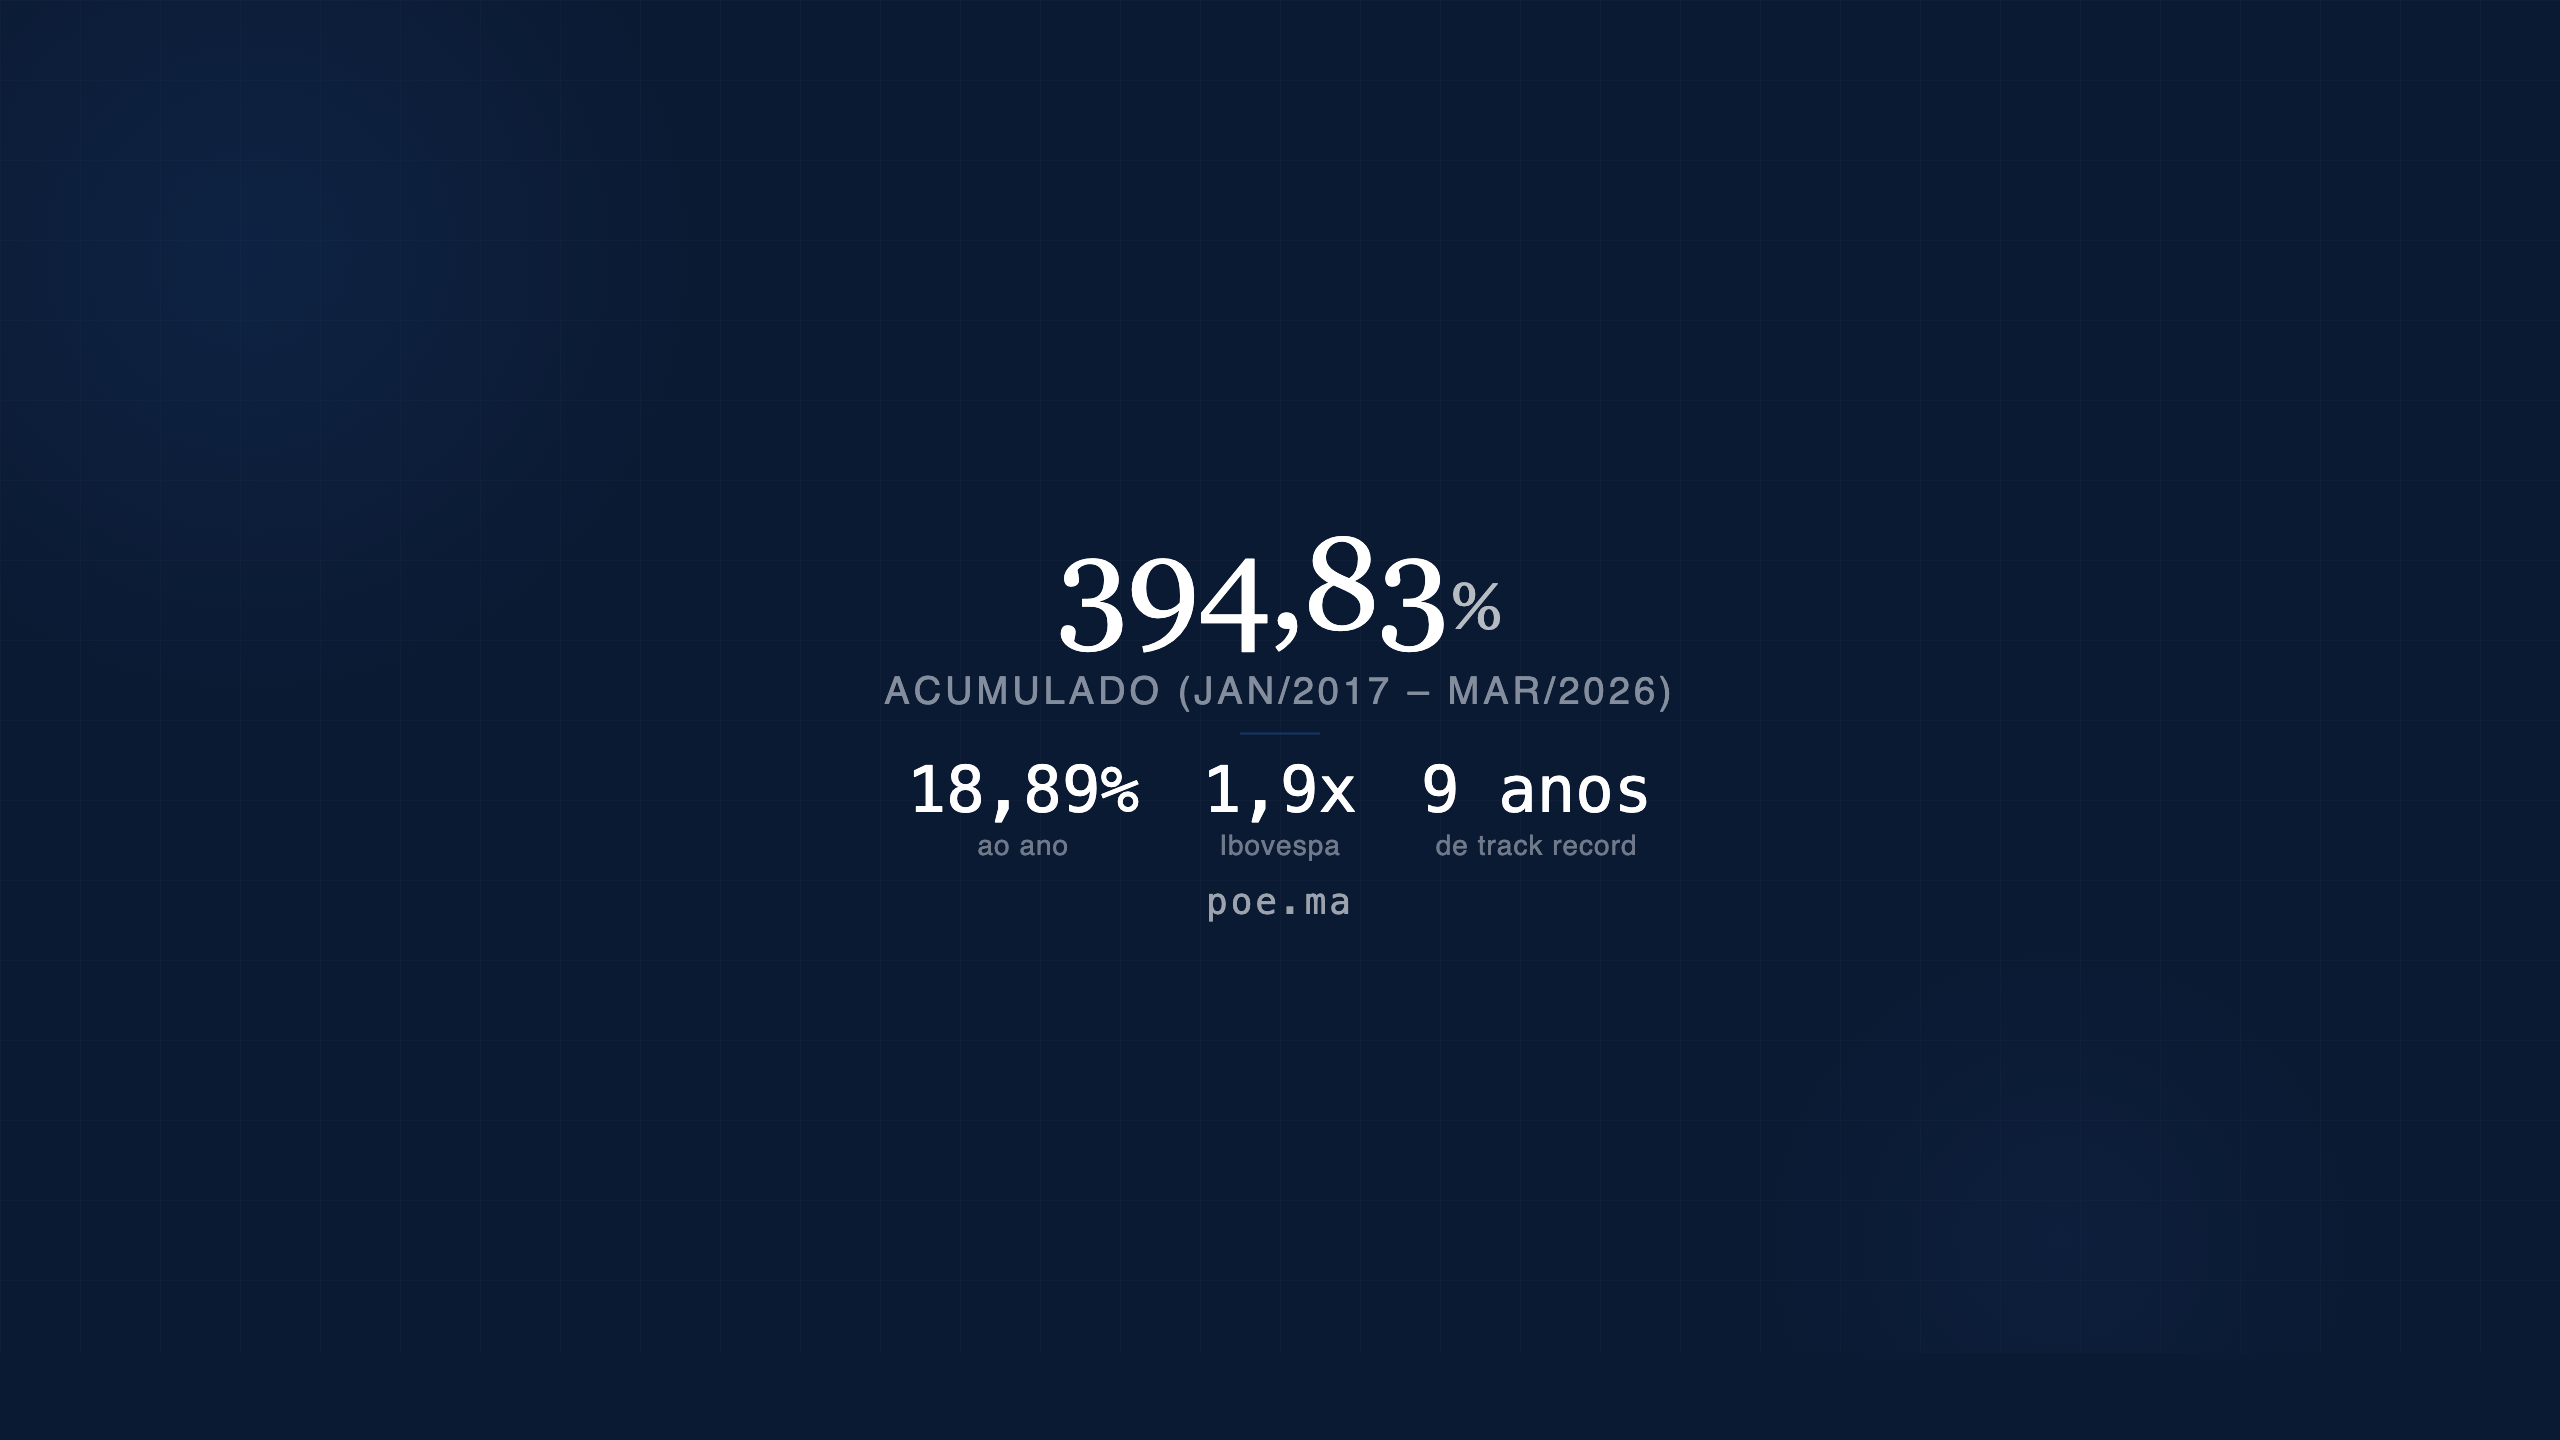
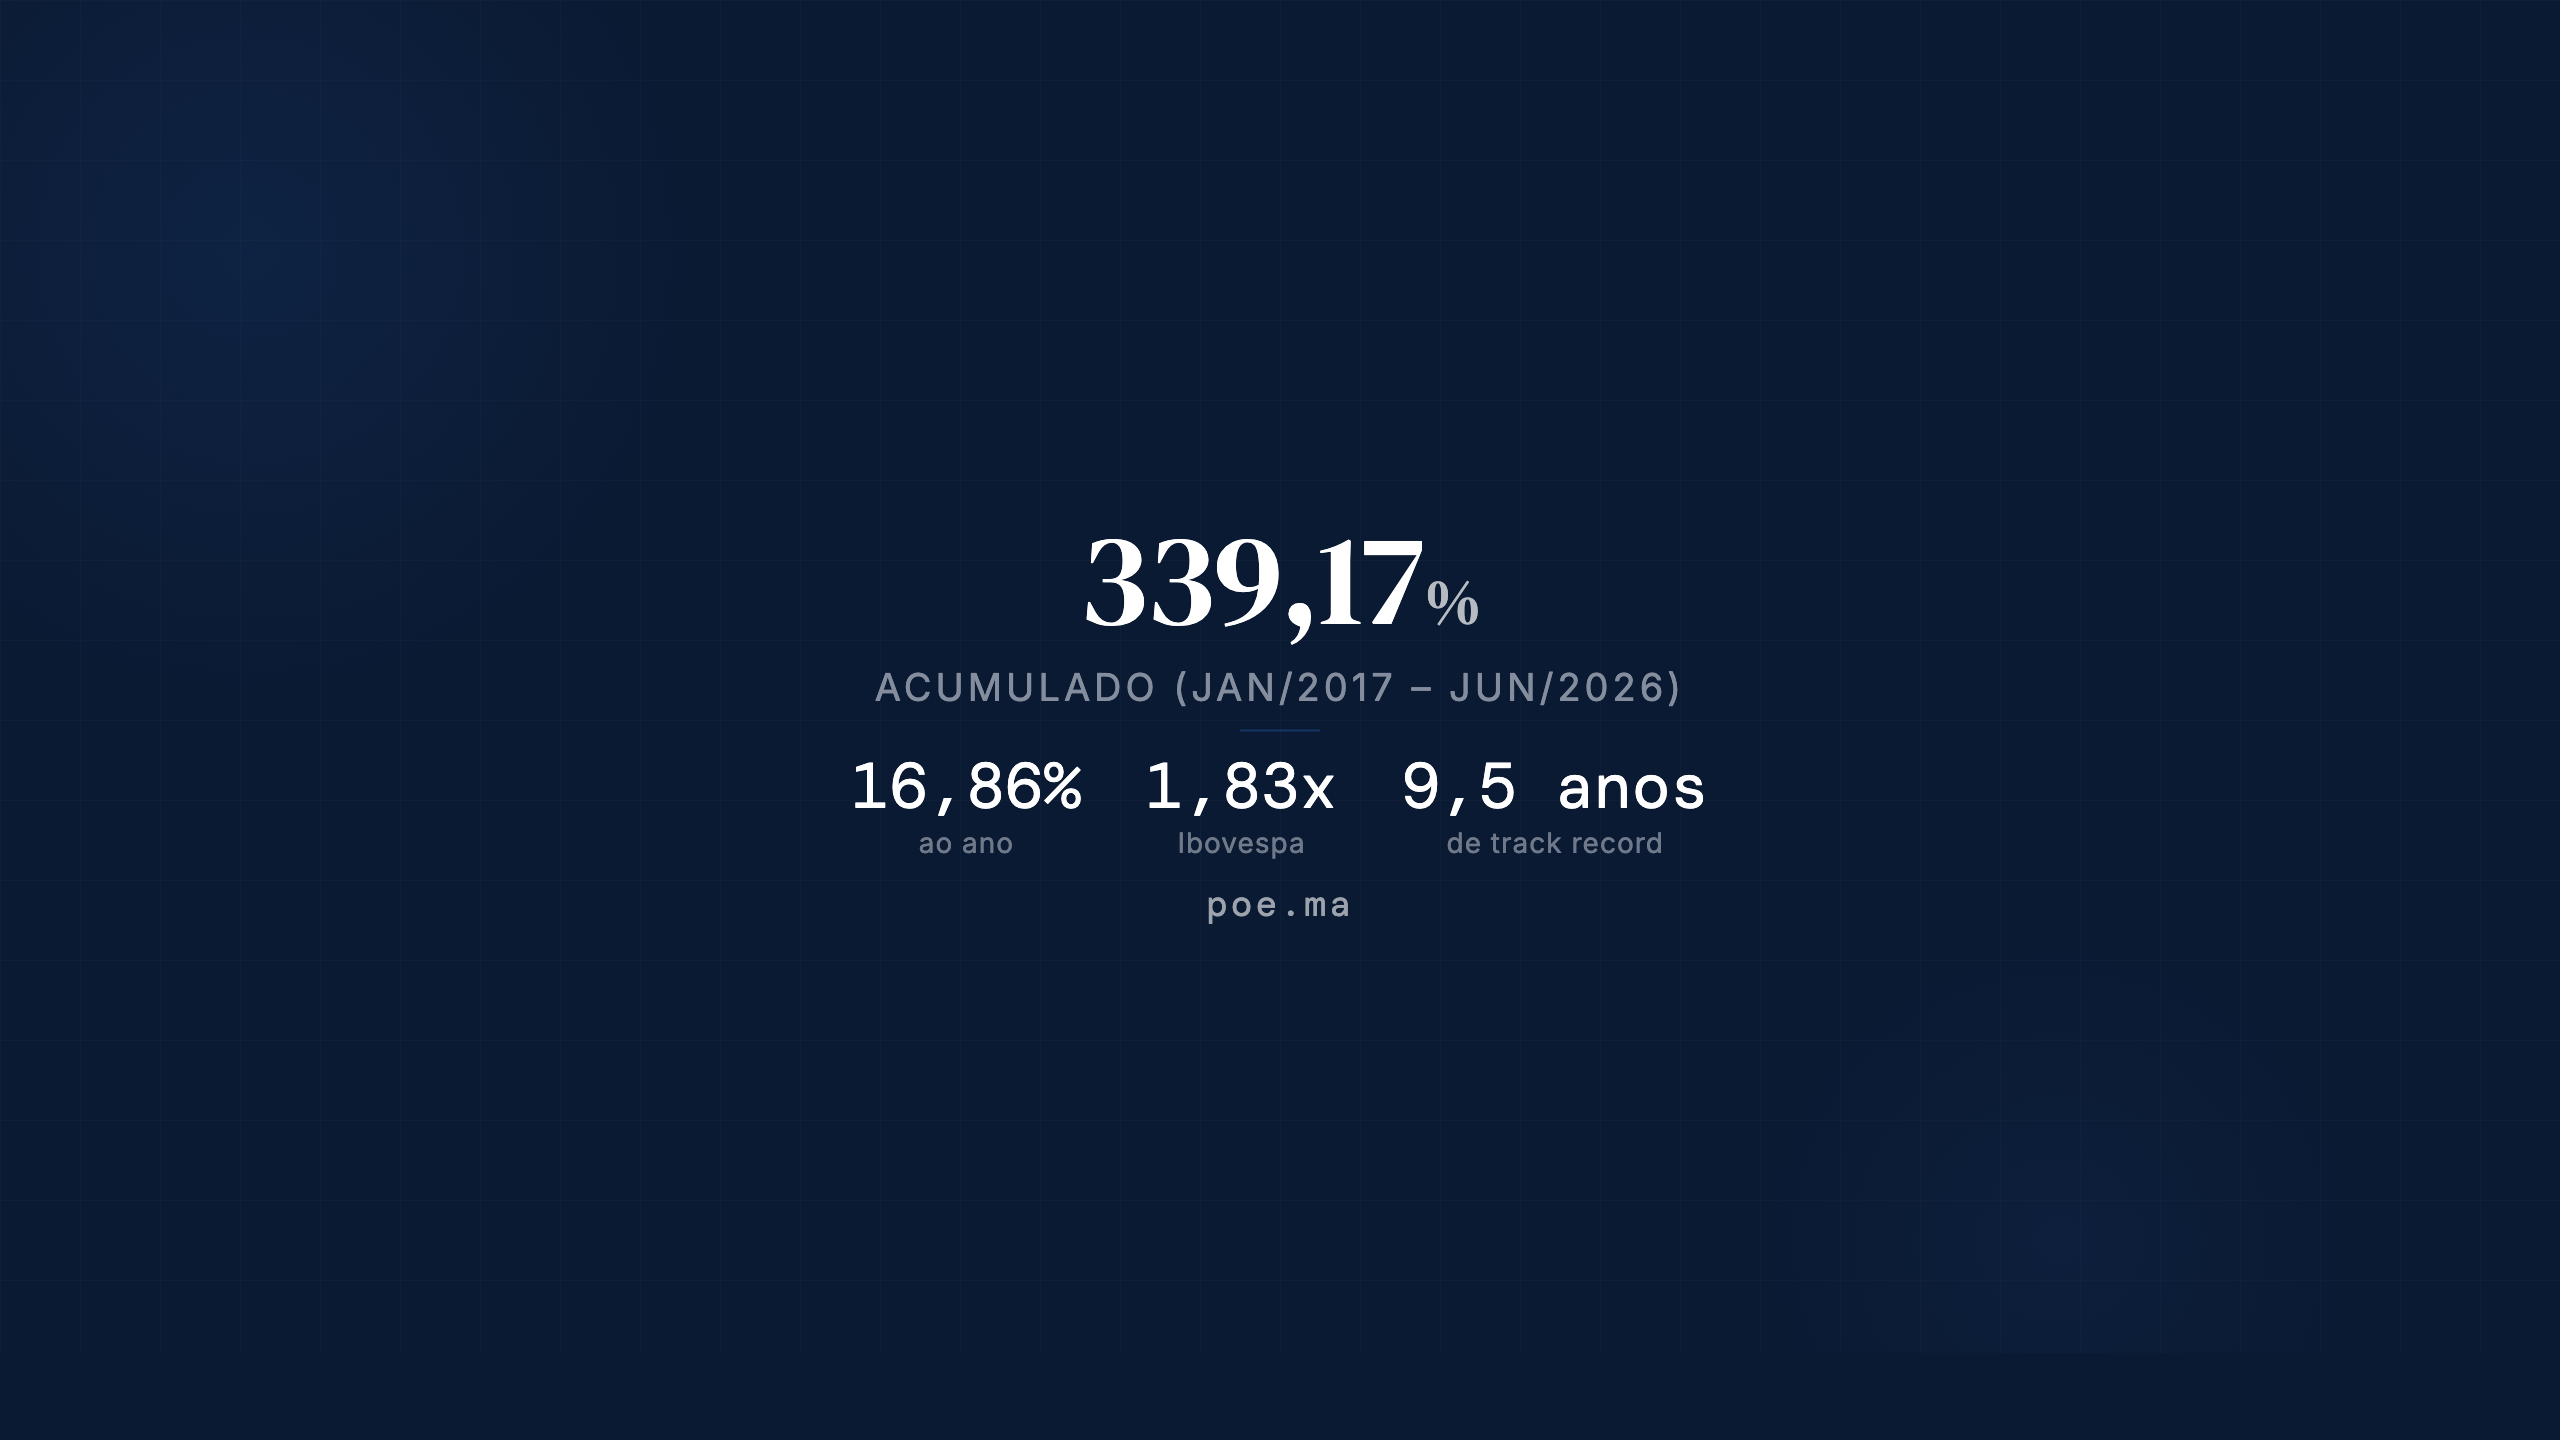
Add 2º trimestre 2026 comunicado, update numbers site-wide (#16)
Publish the Q2/2026 quarterly report and refresh the accumulated
performance figures (339,17% vs 185,64% Ibov, jan/2017–jun/2026)
across the home, intro, and YouTube banner. Include the new quota
evolution and statement PDFs, plus updated X/YouTube banners.

Claude-Session: https://claude.ai/code/session_01X31aBXMcqdhcBXYedF8htt

Changed region(s): [[0.3438, 0.375, 0.6562, 0.5], [0.3125, 0.5312, 0.6875, 0.5938], [0.4688, 0.625, 0.5, 0.6562]]

diff --git a/index.html b/index.html
@@ -4,19 +4,19 @@
   <meta charset="UTF-8">
   <meta name="viewport" content="width=device-width, initial-scale=1.0">
   <title>Poema Parceria de Investimentos</title>
-  <meta name="description" content="Poema Parceria de Investimentos. Performance acumulada de 394,83% de jan/2017 a mar/2026, versus 211,30% do Ibovespa no mesmo período.">
+  <meta name="description" content="Poema Parceria de Investimentos. Performance acumulada de 339,17% de jan/2017 a jun/2026, versus 185,64% do Ibovespa no mesmo período.">
   <link rel="canonical" href="https://poe.ma/">
   <link rel="icon" type="image/png" href="/favicon.png">
   <meta property="og:type" content="website">
   <meta property="og:title" content="Poema Parceria de Investimentos">
-  <meta property="og:description" content="Performance acumulada de 394,83% de jan/2017 a mar/2026, versus 211,30% do Ibovespa no mesmo período.">
+  <meta property="og:description" content="Performance acumulada de 339,17% de jan/2017 a jun/2026, versus 185,64% do Ibovespa no mesmo período.">
   <meta property="og:url" content="https://poe.ma/">
   <meta property="og:image" content="https://poe.ma/images/poema-logo.jpg">
   <meta property="og:locale" content="pt_BR">
   <meta property="og:site_name" content="Poema">
   <meta name="twitter:card" content="summary">
   <meta name="twitter:title" content="Poema Parceria de Investimentos">
-  <meta name="twitter:description" content="Performance acumulada de 394,83% de jan/2017 a mar/2026, versus 211,30% do Ibovespa no mesmo período.">
+  <meta name="twitter:description" content="Performance acumulada de 339,17% de jan/2017 a jun/2026, versus 185,64% do Ibovespa no mesmo período.">
   <meta name="twitter:image" content="https://poe.ma/images/poema-logo.jpg">
   <link rel="stylesheet" href="/styles.css">
   <!-- Google tag (gtag.js) -->
@@ -48,19 +48,19 @@
   <div class="meta">
     <div class="meta-item">
       <span class="key">Poema (acumulado)</span>
-      <span class="val">394,83%</span>
+      <span class="val">339,17%</span>
     </div>
     <div class="meta-item">
       <span class="key">Ibovespa (acumulado)</span>
-      <span class="val">211,30%</span>
+      <span class="val">185,64%</span>
     </div>
     <div class="meta-item">
       <span class="key">Período</span>
-      <span class="val">jan/2017 – mar/2026</span>
+      <span class="val">jan/2017 – jun/2026</span>
     </div>
     <div class="meta-item">
       <span class="key">Último comunicado</span>
-      <a href="/comunicados/2026-1t" class="val meta-link">1º tri 2026</a>
+      <a href="/comunicados/2026-2t" class="val meta-link">2º tri 2026</a>
     </div>
   </div>
 
@@ -80,7 +80,7 @@
 
         <p>As situações de alto potencial são infrequentes. Com isso, nosso portfólio é concentrado nas poucas empresas que se mostram mais seguras a longo prazo por terem baixo endividamento e boa relação de preço frente ao seu valor intrínseco. A consequência para nós dessa concentração é que a volatilidade das nossas cotações tende a ser alta, bem mais alta do que o Ibovespa e certamente do que veículos de renda fixa. Já em prazos mais longos, essa concentração nos dá a possibilidade de resultados melhores do que a média.</p>
 
-        <p>Nossa parceria teve performance de 394,83% de 1/1/2017 até 31/3/2026, versus 211,30% do Ibovespa no mesmo período. Resultados passados não garantem resultados futuros, mas trabalho todo dia para obter resultados ainda melhores daqui para a frente, e baixar nossos custos operacionais com o crescimento do patrimônio.</p>
+        <p>Nossa parceria teve performance de 339,17% de 1/1/2017 até 30/6/2026, versus 185,64% do Ibovespa no mesmo período. Resultados passados não garantem resultados futuros, mas trabalho todo dia para obter resultados ainda melhores daqui para a frente, e baixar nossos custos operacionais com o crescimento do patrimônio.</p>
 
         <p>É fundamental que você se sinta muito confortável ao decidir fazer parte da parceria. Isso passa por fazer uma auto-avaliação, e saber quanto do seu patrimônio você pode investir e dormir com tranquilidade mesmo sabendo que a cotação do seu investimento vai flutuar bastante. Para ilustrar, já tivemos quedas de 45% na cotação da parceria em um intervalo de meses, e também já tivemos subidas de mais de 100% em poucos meses.</p>
 
@@ -137,6 +137,7 @@
       <div class="section">
         <h2 id="comunicados-trimestrais">Comunicados Trimestrais</h2>
         <ul>
+          <li><a href="/comunicados/2026-2t">2º Trimestre 2026</a></li>
           <li><a href="/comunicados/2026-1t">1º Trimestre 2026</a></li>
           <li><a href="/comunicados">Todos os comunicados &rarr;</a></li>
         </ul>

diff --git a/youtube-banner.html b/youtube-banner.html
@@ -180,20 +180,20 @@
   <div class="glow-2"></div>
 
   <div class="content">
-    <div class="hero-number">394,83<span class="pct">%</span></div>
-    <div class="hero-label">Acumulado (jan/2017 – mar/2026)</div>
+    <div class="hero-number">339,17<span class="pct">%</span></div>
+    <div class="hero-label">Acumulado (jan/2017 – jun/2026)</div>
     <div class="divider"></div>
     <div class="stats">
       <div class="stat">
-        <div class="stat-value">18,89%</div>
+        <div class="stat-value">16,86%</div>
         <div class="stat-label">ao ano</div>
       </div>
       <div class="stat">
-        <div class="stat-value">1,9x</div>
+        <div class="stat-value">1,83x</div>
         <div class="stat-label">Ibovespa</div>
       </div>
       <div class="stat">
-        <div class="stat-value">9 anos</div>
+        <div class="stat-value">9,5 anos</div>
         <div class="stat-label">de track record</div>
       </div>
     </div>

diff --git a/introducao.html b/introducao.html
@@ -4,7 +4,7 @@
   <meta charset="UTF-8">
   <meta name="viewport" content="width=device-width, initial-scale=1.0">
   <title>Sobre a Parceria — Poema</title>
-  <meta name="description" content="Parceiros, não clientes. A Poema investe com horizonte de décadas, concentrada em poucas empresas extraordinárias a preços sensatos. 394,83% acumulados desde 2017.">
+  <meta name="description" content="Parceiros, não clientes. A Poema investe com horizonte de décadas, concentrada em poucas empresas extraordinárias a preços sensatos. 339,17% acumulados desde 2017.">
   <link rel="canonical" href="https://poe.ma/introducao">
   <link rel="icon" type="image/png" href="/favicon.png">
   <meta property="og:type" content="article">
@@ -63,7 +63,7 @@
 
   <p>As situações de alto potencial são infrequentes. Com isso, nosso portfólio é concentrado nas poucas empresas que se mostram mais seguras a longo prazo por terem baixo endividamento e boa relação de preço frente ao seu valor intrínseco. A consequência para nós dessa concentração é que a volatilidade das nossas cotações tende a ser alta, bem mais alta do que o Ibovespa e certamente do que veículos de renda fixa. Já em prazos mais longos, essa concentração nos dá a possibilidade de resultados melhores do que a média.</p>
 
-  <p>Nossa parceria teve performance de 394,83% de 1/1/2017 até 31/3/2026, versus 211,30% do Ibovespa no mesmo período. Resultados passados não garantem resultados futuros, mas trabalho todo dia para obter resultados ainda melhores daqui para a frente, e baixar nossos custos operacionais com o crescimento do patrimônio.</p>
+  <p>Nossa parceria teve performance de 339,17% de 1/1/2017 até 30/6/2026, versus 185,64% do Ibovespa no mesmo período. Resultados passados não garantem resultados futuros, mas trabalho todo dia para obter resultados ainda melhores daqui para a frente, e baixar nossos custos operacionais com o crescimento do patrimônio.</p>
 
   <p>É fundamental que você se sinta muito confortável ao decidir fazer parte da parceria. Isso passa por fazer uma auto-avaliação, e saber quanto do seu patrimônio você pode investir e dormir com tranquilidade mesmo sabendo que a cotação do seu investimento vai flutuar bastante. Para ilustrar, já tivemos quedas de 45% na cotação da parceria em um intervalo de meses, e também já tivemos subidas de mais de 100% em poucos meses.</p>
 